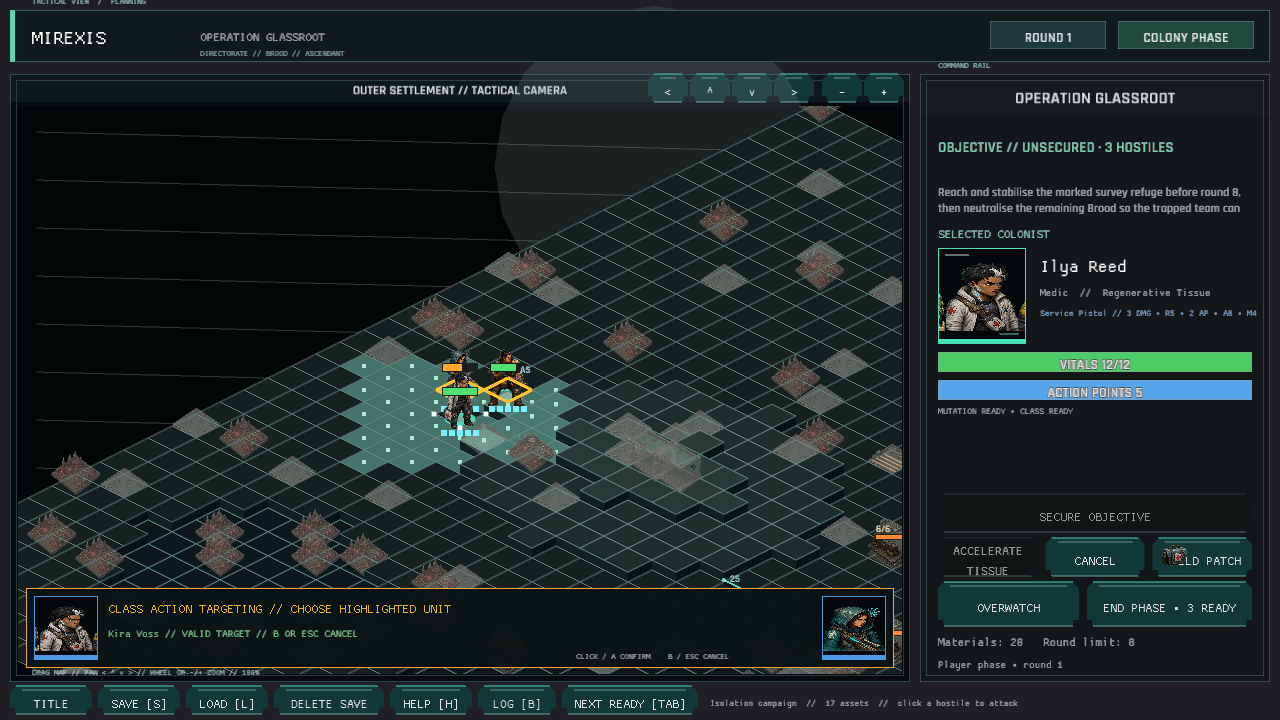
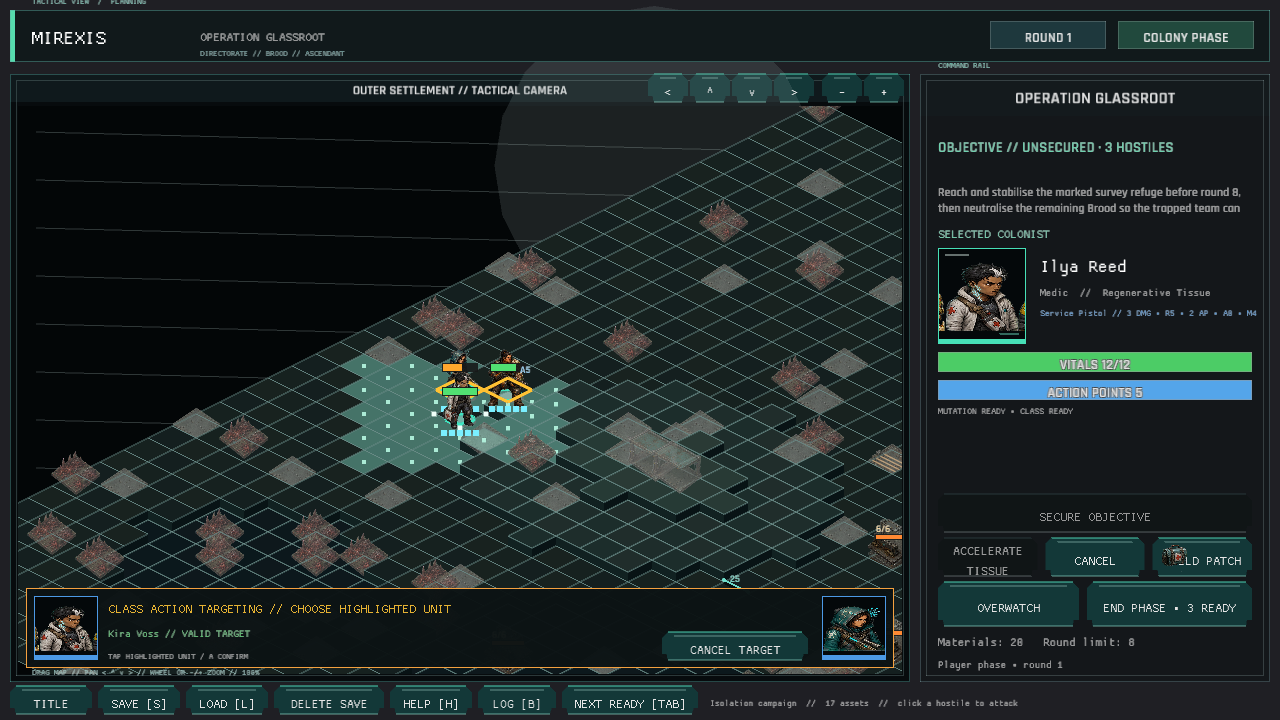
Every field command has a handhold (touch targeting and replay recovery)
Targeting and hostile-phase replay still described keyboard-only recovery even though the browser build is touch-first. Add explicit CANCEL TARGET and SKIP REPLAY controls, preserve automatic replay progress and existing shortcuts, cover both control bounds, refresh their three evidence scenes, and record the successful published tap path.

Changed region(s): [[0.4688, 0.8556, 0.6562, 0.9167], [0.0938, 0.8861, 0.1875, 0.9167], [0.2188, 0.8556, 0.2812, 0.8861]]

diff --git a/src/tactical_map_ui.rs b/src/tactical_map_ui.rs
@@ -153,7 +153,7 @@ pub(crate) fn draw(
     crate::ui::set_ui_clip(ctx.ui, None);
     crate::action_preview_ui::draw(ctx.session, preview_tile, panel, ctx.assets, ctx.visuals);
     if ctx.targeting.is_some() {
-        draw_targeting_card(ctx, preview_tile, panel);
+        draw_targeting_card(ctx, preview_tile, panel, mouse, actions);
     }
     draw_ui_text_ex(
         &format!(
@@ -168,8 +168,22 @@ pub(crate) fn draw(
     camera_dragged
 }
 
-fn draw_targeting_card(ctx: &UiContext<'_>, tile: TilePos, panel: Rect) {
-    let card = Rect::new(panel.x + 16.0, panel.bottom() - 94.0, panel.w - 32.0, 80.0);
+fn targeting_card_bounds(panel: Rect) -> Rect {
+    Rect::new(panel.x + 16.0, panel.bottom() - 94.0, panel.w - 32.0, 80.0)
+}
+
+fn cancel_targeting_bounds(card: Rect) -> Rect {
+    Rect::new(card.right() - 232.0, card.bottom() - 36.0, 146.0, 28.0)
+}
+
+fn draw_targeting_card(
+    ctx: &UiContext<'_>,
+    tile: TilePos,
+    panel: Rect,
+    mouse: Vec2,
+    actions: &mut Vec<UiAction>,
+) {
+    let card = targeting_card_bounds(panel);
     draw_surface(
         card,
         &SurfaceStyle::new(Color::new(0.026, 0.052, 0.058, 0.98))
@@ -263,7 +277,7 @@ fn draw_targeting_card(ctx: &UiContext<'_>, tile: TilePos, panel: Rect) {
             );
             draw_ui_text_ex(
                 &format!(
-                    "{} // {} // B OR ESC CANCEL",
+                    "{} // {}",
                     target.map_or("NO UNIT SELECTED", |unit| unit.name.as_str()),
                     if valid {
                         "VALID TARGET"
@@ -301,11 +315,14 @@ fn draw_targeting_card(ctx: &UiContext<'_>, tile: TilePos, panel: Rect) {
         );
     }
     draw_ui_text_ex(
-        "CLICK / A CONFIRM    B / ESC CANCEL",
-        card.right() - 318.0,
+        "TAP HIGHLIGHTED UNIT / A CONFIRM",
+        card.x + 82.0,
         card.bottom() - 9.0,
         TextStyle::new(10.0, dark::TEXT_DIM).params(),
     );
+    if crate::ui_widgets::button(cancel_targeting_bounds(card), "CANCEL TARGET", true, mouse) {
+        actions.push(UiAction::CancelTargeting);
+    }
 }
 
 fn draw_backdrop(rect: Rect) {

diff --git a/src/phase_replay.rs b/src/phase_replay.rs
@@ -1,11 +1,17 @@
 //! Brief, skippable presentation beats for an atomically resolved hostile phase.
 
 use crate::state::BattleEvent;
+use crate::ui::UiAction;
+use crate::ui_widgets::button;
 use macroquad::prelude::*;
 use macroquad_toolkit::prelude::{dark, draw_surface, SurfaceStyle, TextStyle};
 
 const BEAT_SECONDS: f32 = 0.48;
 const MAX_BEATS: usize = 8;
+
+fn skip_bounds() -> Rect {
+    Rect::new(650.0, 560.0, 168.0, 36.0)
+}
 
 #[derive(Debug, Default, Clone)]
 pub(crate) struct PhaseReplay {
@@ -86,7 +92,7 @@ impl PhaseReplay {
         self.remaining = 0.0;
     }
 
-    pub fn draw(&self) {
+    pub fn draw(&self, mouse: Vec2, actions: &mut Vec<UiAction>) {
         let Some(beat) = self.beats.get(self.current) else {
             return;
         };
@@ -111,7 +117,7 @@ impl PhaseReplay {
         );
         draw_text_ex(
             format!(
-                "HOSTILE ACTIVITY {}/{}  ·  SPACE SKIPS",
+                "HOSTILE ACTIVITY {}/{}  ·  AUTO ADVANCE",
                 self.current + 1,
                 self.beats.len()
             ),
@@ -154,6 +160,9 @@ impl PhaseReplay {
             558.0,
             TextStyle::new(11.0, Color::new(0.96, 0.55, 0.35, 1.0)).params(),
         );
+        if button(skip_bounds(), "SKIP REPLAY", true, mouse) {
+            actions.push(UiAction::SkipPhaseReplay);
+        }
     }
 }
 

diff --git a/src/tactical_map_ui/tests.rs b/src/tactical_map_ui/tests.rs
@@ -19,6 +19,18 @@ fn visible_tactical_camera_controls_stay_inside_the_header_and_outside_the_map()
 }
 
 #[test]
+fn cancel_targeting_control_is_visible_without_covering_the_target_portrait() {
+    let card = targeting_card_bounds(tactical_panel());
+    let cancel = cancel_targeting_bounds(card);
+    let target_portrait = Rect::new(card.right() - 72.0, card.y + 8.0, 64.0, 64.0);
+    assert!(cancel.x >= card.x);
+    assert!(cancel.right() <= card.right());
+    assert!(cancel.y >= card.y);
+    assert!(cancel.bottom() <= card.bottom());
+    assert!(cancel.right() <= target_portrait.x);
+}
+
+#[test]
 fn tactical_clamp_exposes_complete_boundary_art() {
     let viewport = Rect::new(18.0, 106.0, 884.0, 568.0);
     let cases = [

diff --git a/src/phase_replay/tests.rs b/src/phase_replay/tests.rs
@@ -25,3 +25,13 @@ fn replay_keeps_important_events_bounded_and_advances_by_time() {
     replay.clear();
     assert!(!replay.is_active());
 }
+
+#[test]
+fn skip_control_is_visible_inside_the_replay_overlay() {
+    let overlay = Rect::new(18.0, 544.0, 820.0, 82.0);
+    let skip = skip_bounds();
+    assert!(skip.x >= overlay.x);
+    assert!(skip.right() <= overlay.right());
+    assert!(skip.y >= overlay.y);
+    assert!(skip.bottom() <= overlay.bottom());
+}

diff --git a/src/game.rs b/src/game.rs
@@ -689,6 +689,7 @@ impl Game {
                     self.session.tactical.round
                 ));
             }
+            UiAction::SkipPhaseReplay => self.phase_replay.clear(),
             UiAction::ToggleTacticalHelp => {
                 self.show_tactical_help = !self.show_tactical_help;
                 self.show_battle_log = false;

diff --git a/src/ui.rs b/src/ui.rs
@@ -319,7 +319,7 @@ pub fn draw_tactical(
     }
     if ctx.phase_replay.is_active() {
         actions.clear();
-        ctx.phase_replay.draw();
+        ctx.phase_replay.draw(mouse, &mut actions);
     }
     suppress_map_release_actions(&mut actions, suppress_actions);
     actions

diff --git a/src/ui_action.rs b/src/ui_action.rs
@@ -44,6 +44,7 @@ pub enum UiAction {
     UseEquipmentOn(String),
     SetOverwatch,
     EndPhase,
+    SkipPhaseReplay,
     ToggleTacticalHelp,
     ToggleBattleLog,
     Save,

diff --git a/docs/verification/SPATIAL_CAMERA_ACCEPTANCE_MATRIX.md b/docs/verification/SPATIAL_CAMERA_ACCEPTANCE_MATRIX.md
@@ -16,14 +16,14 @@ Capture root: `docs/verification`
 | Primary viewport receives most screen space | World panel is 900 x 608; command rail is 350 pixels wide; header is 52 pixels high | `ui_gameplay.png`, `ui_colony.png` | PASS |
 | Empty UI, buttons, headers, and spacing are compact | Header reduced 66→52 pixels; tactical footer controls reduced 44→28 pixels; command rail reduced 406→350 pixels | Canonical tactical and colony captures | PASS |
 | Selection remains correct after transforms | Rendering and inverse hit testing share `GridView`; clicks are constrained to the camera viewport; loading resets camera focus to the restored tactical selection | Isometric round-trip tests; same-version 12 x 8 save projects selection and every positional tactical field into 40 x 40; current saves reject off-world coordinates across every positional family; live panned-view tile selection; `ui_class_target.png` | PASS |
-| Movement and route previews remain correct | Route, movement overlay, and action card use the camera-derived `GridView` | 207 gameplay tests; live transformed move after pan+125% zoom; `ui_movement_route.png` | PASS |
+| Movement and route previews remain correct | Route, movement overlay, and action card use the camera-derived `GridView` | 209 gameplay tests; live transformed move after pan+125% zoom; `ui_movement_route.png` | PASS |
 | Targeting remains correct | Equipment, class-action, hostile, and cover targeting use transformed tile positions | Existing targeting tests; `ui_class_target.png`, `ui_valid_shot.png`, `ui_equipment.png` | PASS |
 | Colony placement and hover remain correct | `ColonyView` owns projection, complete plot-art bounds, and hover inversion at every zoom; camera controls sit below the hit viewport and consume their own activation | Exhaustive 400-plot hover round-trips at all zoom limits and clamp edges, full outer-diamond and frontier-art checks, and control-boundary regressions; live visible-control pan, 125% zoom, hover, and placement; `ui_construction.png` | PASS |
-| Contextual UI and hover states remain correct | World draws are scissored before cards, panels, and footers; overlays share transformed bounds; help, battle-log, and replay modal layers disable obscured world input; colony culling uses complete zoom-aware plot-art bounds; the colony header exposes a visible touch/click TITLE recovery control | DPI clip, modal-input isolation, maximum-zoom colony edge-culling, and title-control geometry tests; full capture audit; inspected tactical/colony context scenes | PASS |
+| Contextual UI and hover states remain correct | World draws are scissored before cards, panels, and footers; overlays share transformed bounds; help, battle-log, and replay modal layers disable obscured world input; targeting and replay expose visible touch/click recovery controls; colony culling uses complete zoom-aware plot-art bounds; the colony header exposes a visible TITLE control | DPI clip, modal-input isolation, maximum-zoom colony edge-culling, and TITLE/CANCEL TARGET/SKIP REPLAY geometry tests; full capture audit; inspected tactical/colony context scenes | PASS |
 | Map variants stay playable in the larger runtime world | Compact authored recipes project into the 40 x 40 world; runtime safety checks every blocked tile, objective, hazard, terrain cost, and cover edge before accepting a mirrored variant | Bounded/reachable even-and-odd variant coverage plus explicit out-of-bounds terrain/cover rejection; `ui_variant.png` | PASS |
 | Standard-resolution visual validation passes | Full root capture suite rendered at 1280 x 720 with a fixed off-canvas capture pointer; the explicit title-hover scene supplies its own deterministic pointer | Fixed-pointer regression; 85 unique captures; no missing, duplicate, magenta, blank, wrong-size, or low-detail frame | PASS |
 | Required publisher passes | Windows and WebGL release builds, packaging, preview deployment, and catalog sync completed | `publish.ps1` passed 2026-08-12 | PASS |
-| Published WebGL rendering remains stable | UI font atlases are populated before the first frame, preventing mid-frame GPU texture replacement; starting a new operation resets stale colony camera state | Fresh published session rendered title, colony pan/zoom/hover/placement, briefing/deployment, tactical pan/zoom/selection/movement at a 1280 x 720 browser viewport; a tap-only 185%-zoom/pan → TITLE → NEW OPERATION flow restored 1,162,182 compared world bytes exactly; no warning, error, panic, or WASM-load failure appeared | PASS |
+| Published WebGL rendering remains stable | UI font atlases are populated before the first frame, preventing mid-frame GPU texture replacement; starting a new operation resets stale colony camera state | Fresh published session rendered title, colony pan/zoom/hover/placement, briefing/deployment, tactical pan/zoom/selection/movement and touch-skipped phase replay at a 1280 x 720 browser viewport; a tap-only 185%-zoom/pan → TITLE → NEW OPERATION flow restored 1,162,182 compared world bytes exactly; no warning, error, panic, or WASM-load failure appeared | PASS |
 | Initial settlement is centered with a readable undeveloped frontier | `SETTLEMENT_CENTER` anchors the command centre at [10, 10]; five supporting buildings occupy spacious positions around it; the 20 x 20 ground pass draws every visible unoccupied plot; structurally detected same-version corner saves migrate founders plus collision-free custom work into the frontier | New-layout, legacy-layout idempotence/collision, same-version persistence, and camera-framing regressions; refreshed `ui_colony.png` and centered `ui_construction.png` | PASS |
 | Tactical deployment uses the full battlefield | Allied formations enter coherently on the western side; dynamic hostile starts use a safe eastern-front search; authored recipes project across 40 x 40; reinforcement fallbacks reject bounds, obstacles, objectives, hazards, and live units | Opposing-distance/spread, forced hostile fallback, all-template deployment safety, every-template/every-formation unit-to-objective reachability, recipe bounds/reachability, and all-template/all-wave forced fallback safety plus allied-field connectivity; refreshed priority tactical captures | PASS |
 | Tactical terrain has clearly readable elevation | `GridView` supplies distributed raised mesas at levels 1 and 2 plus lowered basins at level -1; exposed neighbor differences generate cliff faces and depth-sorted occlusion without debug height labels | Height-distribution/projection tests; exhaustive 1,600-tile render-order hit ownership at five interior points and both zoom limits; exhaustive art-family/cliff culling at three camera transforms; refreshed visual evidence | PASS |

diff --git a/docs/verification/FINAL_REQUIREMENT_AUDIT.md b/docs/verification/FINAL_REQUIREMENT_AUDIT.md
@@ -13,9 +13,9 @@ Completion rule: a requirement is complete only when current implementation and 
 | 4 | Production 2D assets for all recruits and enemy families, facings/states, allegiance, equipment/mutation cues, and portraits | Eleven 4 x 6 unit atlases, recruit/enemy portrait atlases, `src/tactical_unit_ui.rs`, manifest definitions | `asset_atlas_audit/unit_atlases.jpg`; tests resolve every roster record to authored unit and portrait art and reject duplicate/empty atlas cells | PASS |
 | 5 | Inhabited colony with all building, construction, power, damage/repair, evolution, path, dressing, and interaction states | `src/colony_map_ui.rs`, `src/colony_ui.rs`, colony 4 x 4 atlas, authored recruit inhabitants | `colony`, `construction`, `power`, `damage`, `repair`, campaign-phase and three ending captures; responsive control audit | PASS |
 | 6 | Rebuilt battle presentation: comparison, staging, recoil, impacts, criticals, faction effects, transitions, objectives, hazards, reinforcements, post-state | `src/action_preview_ui.rs`, `combat_feedback.rs`, `phase_replay.rs`, `enemy_intent_ui.rs`, `reinforcement_ui.rs`, `objective_ui.rs` | Forecast, valid/invalid shot, feedback, replay, abilities, hazard, reinforcement, objective, readiness, vitality, and debrief captures | PASS |
-| 7 | One UI system across screens including typography, surfaces, controls, states, portraits, resources, warnings, tooltips, and input cues | `src/ui_widgets.rs`, shared toolkit dark theme/surfaces, portrait and title modules; accurate strategy/tactical controller mappings | `UI_CONTRAST_TYPOGRAPHY_AUDIT.md`; `title`, `title_controller`, `title_hover`; help/log/modals; 1024 x 768 strategy-control audit | PASS |
+| 7 | One UI system across screens including typography, surfaces, controls, states, portraits, resources, warnings, tooltips, and input cues | `src/ui_widgets.rs`, shared toolkit dark theme/surfaces, portrait and title modules; accurate strategy/tactical controller mappings; visible TITLE, CANCEL TARGET, and SKIP REPLAY touch recovery | `UI_CONTRAST_TYPOGRAPHY_AUDIT.md`; `title`, `title_controller`, `title_hover`; help/log/modals; refreshed targeting and replay scenes; 1024 x 768 strategy-control audit | PASS |
 | 8 | Capture every supported scene, compare against baseline/report, and fix visual defects | Current 85-scene deterministic harness and capture builders | `FINAL_CAPTURE_INVENTORY.md`, eight inspected contact sheets, `capture_audit.json`, `UI_GRAPHICS_COMPARISON_AUDIT.md`, responsive and grayscale evidence | PASS |
-| 9 | Validate meaningful checkpoints with Cargo and `publish.ps1` without treating them as sole completion evidence | Test, strict lint, publisher, package, capture, visual, and browser checks are separate gates | Current: 207 crate tests plus the source-limit target test; strict Clippy; successful Windows/WebGL publish; native capture and published-browser checks | PASS |
+| 9 | Validate meaningful checkpoints with Cargo and `publish.ps1` without treating them as sole completion evidence | Test, strict lint, publisher, package, capture, visual, and browser checks are separate gates | Current: 209 crate tests plus the source-limit target test; strict Clippy; successful Windows/WebGL publish; native capture and published-browser checks | PASS |
 | 10 | Work actively for at least four hours and continue until no acceptance item remains unresolved | The fresh goal timer is the authority; the matrix time row may close only after it exceeds 14,400 active seconds | Current fresh-goal timer remains below 14,400 seconds | PENDING |
 
 ## Cross-checks
@@ -26,7 +26,7 @@ Completion rule: a requirement is complete only when current implementation and 
 - File integrity: all 85 byte counts and SHA-256 values in `FINAL_CAPTURE_INVENTORY.md` were recomputed against the frozen PNG set and match in manifest order.
 - Source constraints: every Rust source and test file passes the enforced 800-physical-line limit; the current largest file is `src/strategy.rs`.
 - Shipping integrity: `publish.ps1` creates Windows and WebGL builds with 27 runtime assets (25.85 MB), includes both manifests and all atlas families, and excludes `art_sources`.
-- Browser integrity: a fresh final preview load renders the WebGL canvas at 1200 x 675 with no panic, runtime-error, or WASM-load-error overlay; clicks aimed through the HELP modal at the obscured pan/zoom controls leave 1,131,426 compared battlefield bytes exactly unchanged; a tap-only 185%-zoom/pan → TITLE → NEW OPERATION flow restores 1,162,182 colony-world bytes exactly.
+- Browser integrity: a fresh final preview load renders the WebGL canvas at 1200 x 675 with no panic, runtime-error, or WASM-load-error overlay; clicks aimed through the HELP modal at the obscured pan/zoom controls leave 1,131,426 compared battlefield bytes exactly unchanged; a tap-only 185%-zoom/pan → TITLE → NEW OPERATION flow restores 1,162,182 colony-world bytes exactly; SKIP REPLAY dismisses an active hostile-phase overlay by tap.
 - Office-suite constraint: no LibreOffice/soffice dependency or invocation exists in the worktree or verification workflow.
 
 ## Remaining gate

diff --git a/docs/verification/FINAL_CAPTURE_INVENTORY.md b/docs/verification/FINAL_CAPTURE_INVENTORY.md
@@ -94,7 +94,7 @@ Manifest: `scripts/capture_ui.ps1`
[8 lines of base64/hex data omitted]
@@ -106,9 +106,9 @@ Manifest: `scripts/capture_ui.ps1`
[11 lines of base64/hex data omitted]
